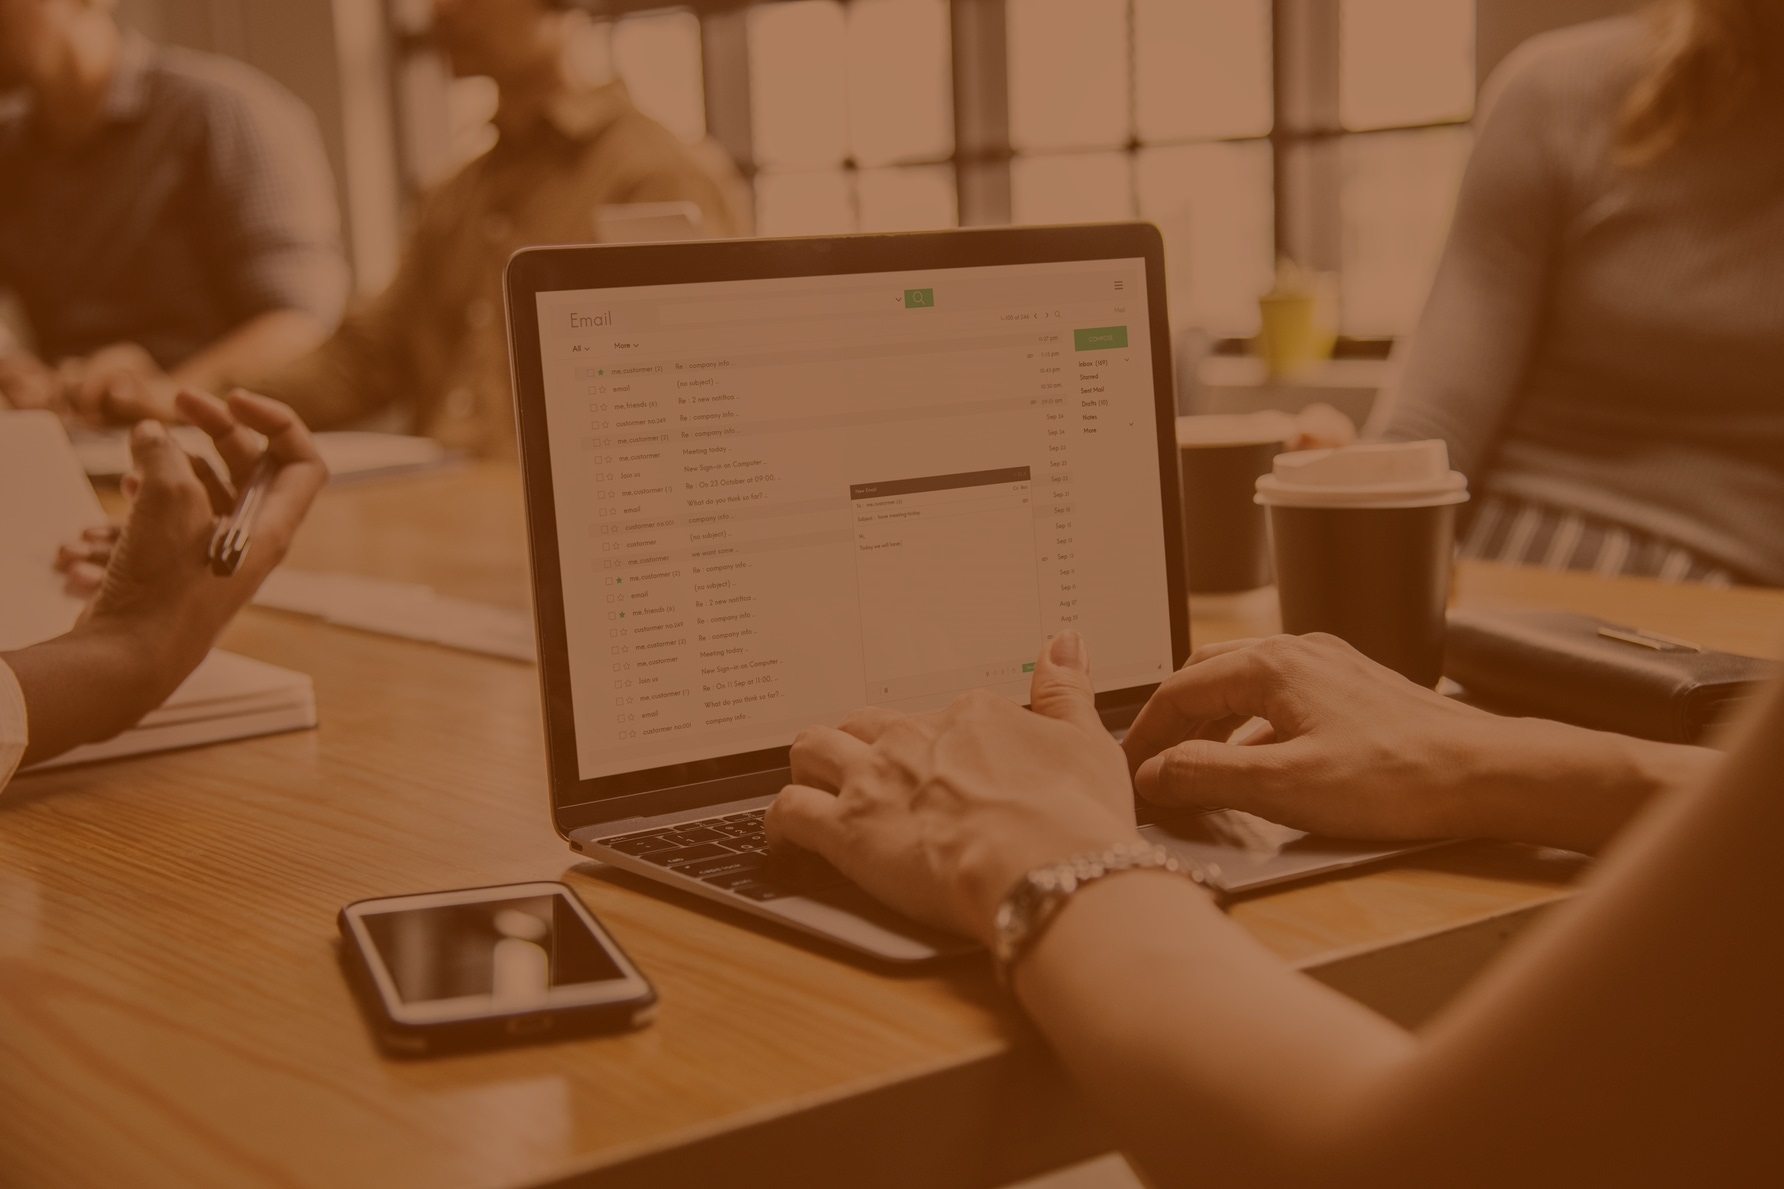
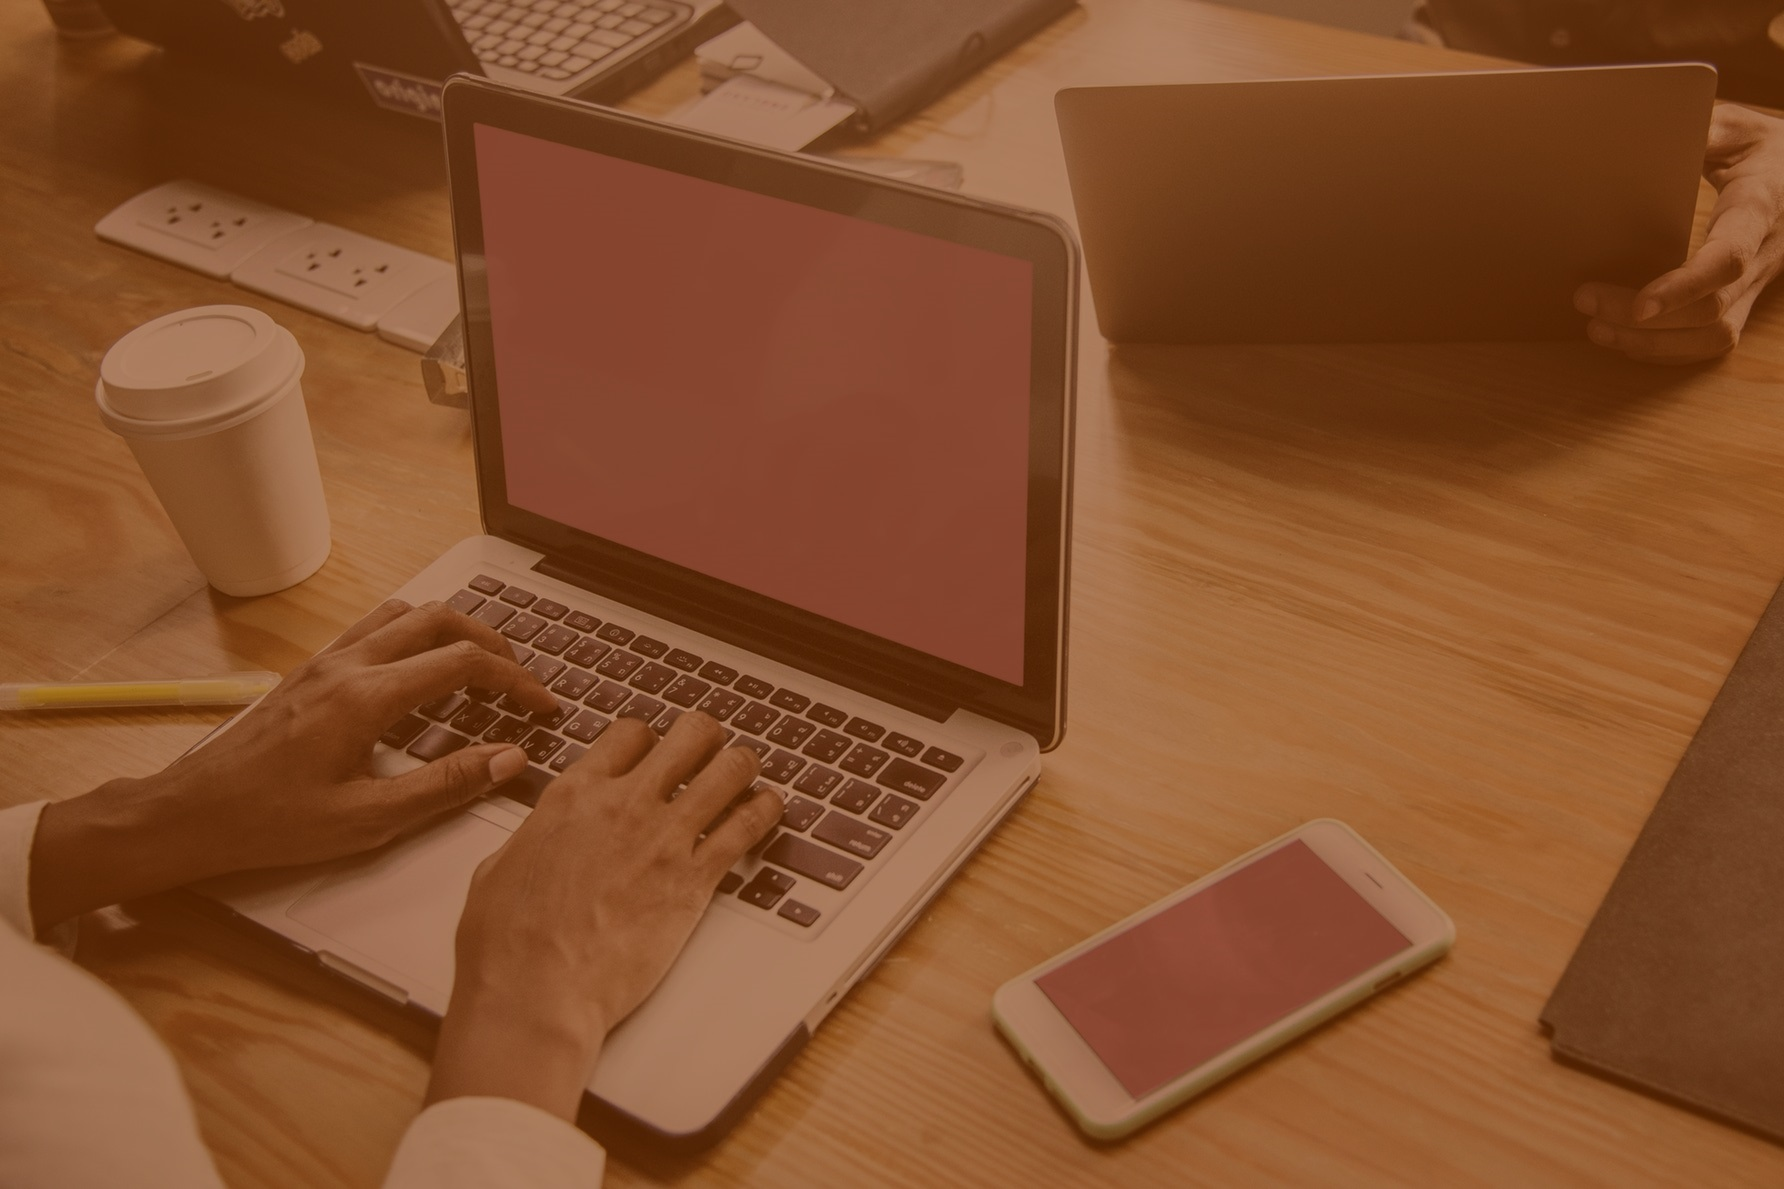
new background, scroll delete

diff --git a/index.html b/index.html
@@ -34,7 +34,7 @@
 
     </head>
 
-    <body>
+    <body style="overflow-x:hidden;">
     
         <!-- Loader -->
     	<div class="loader">
